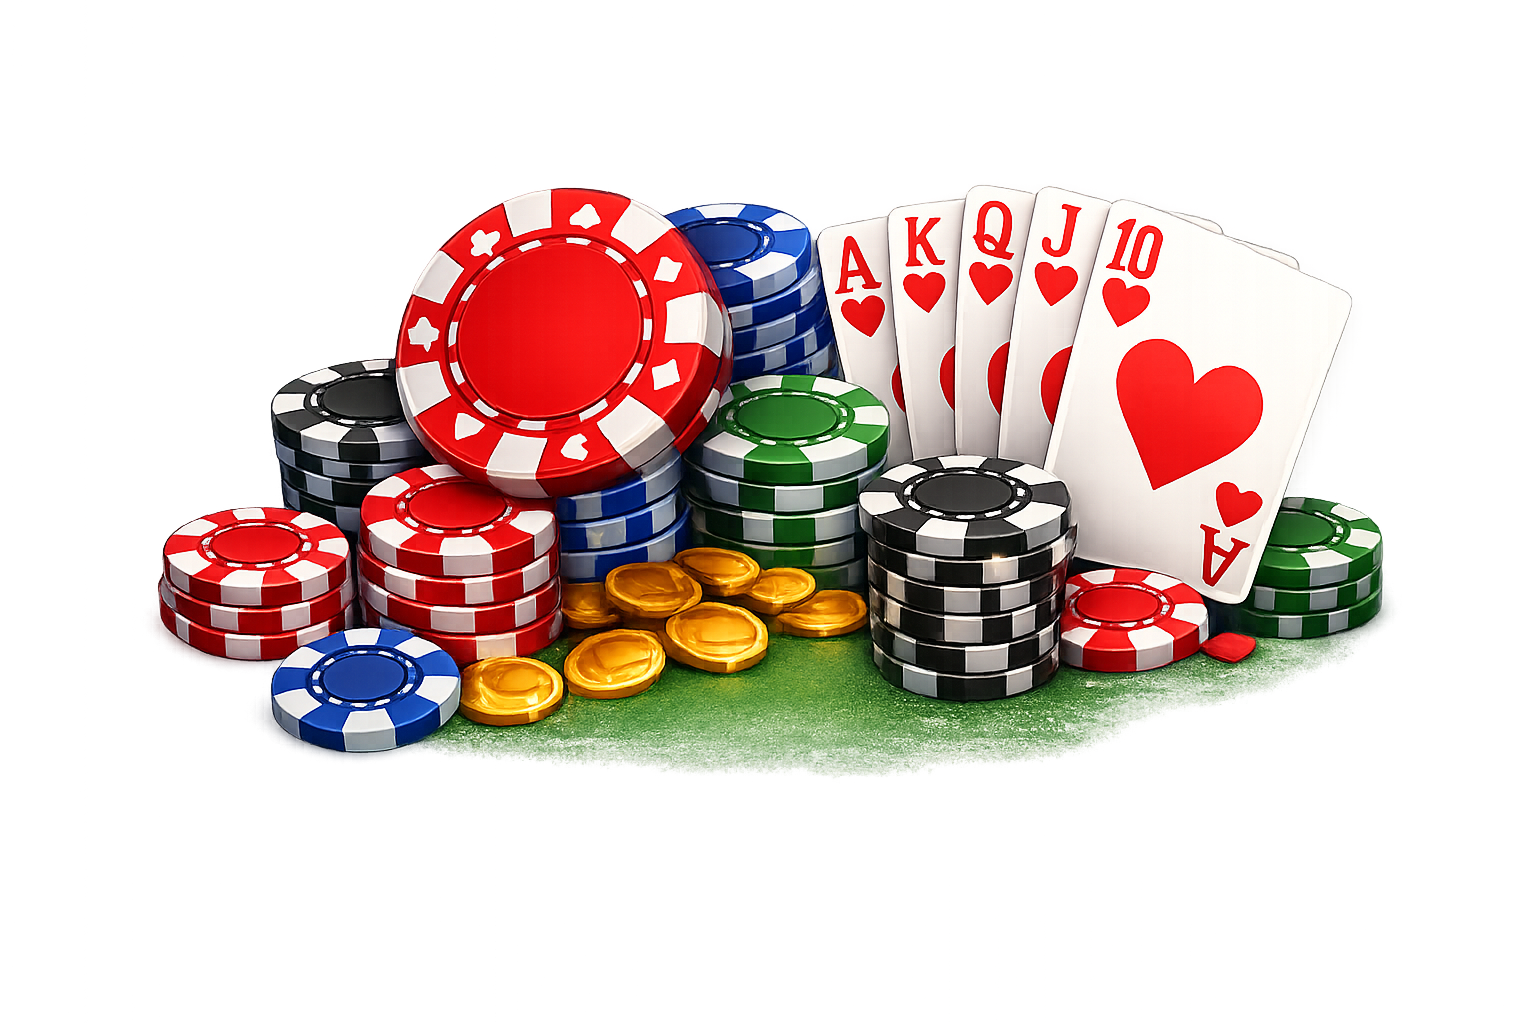
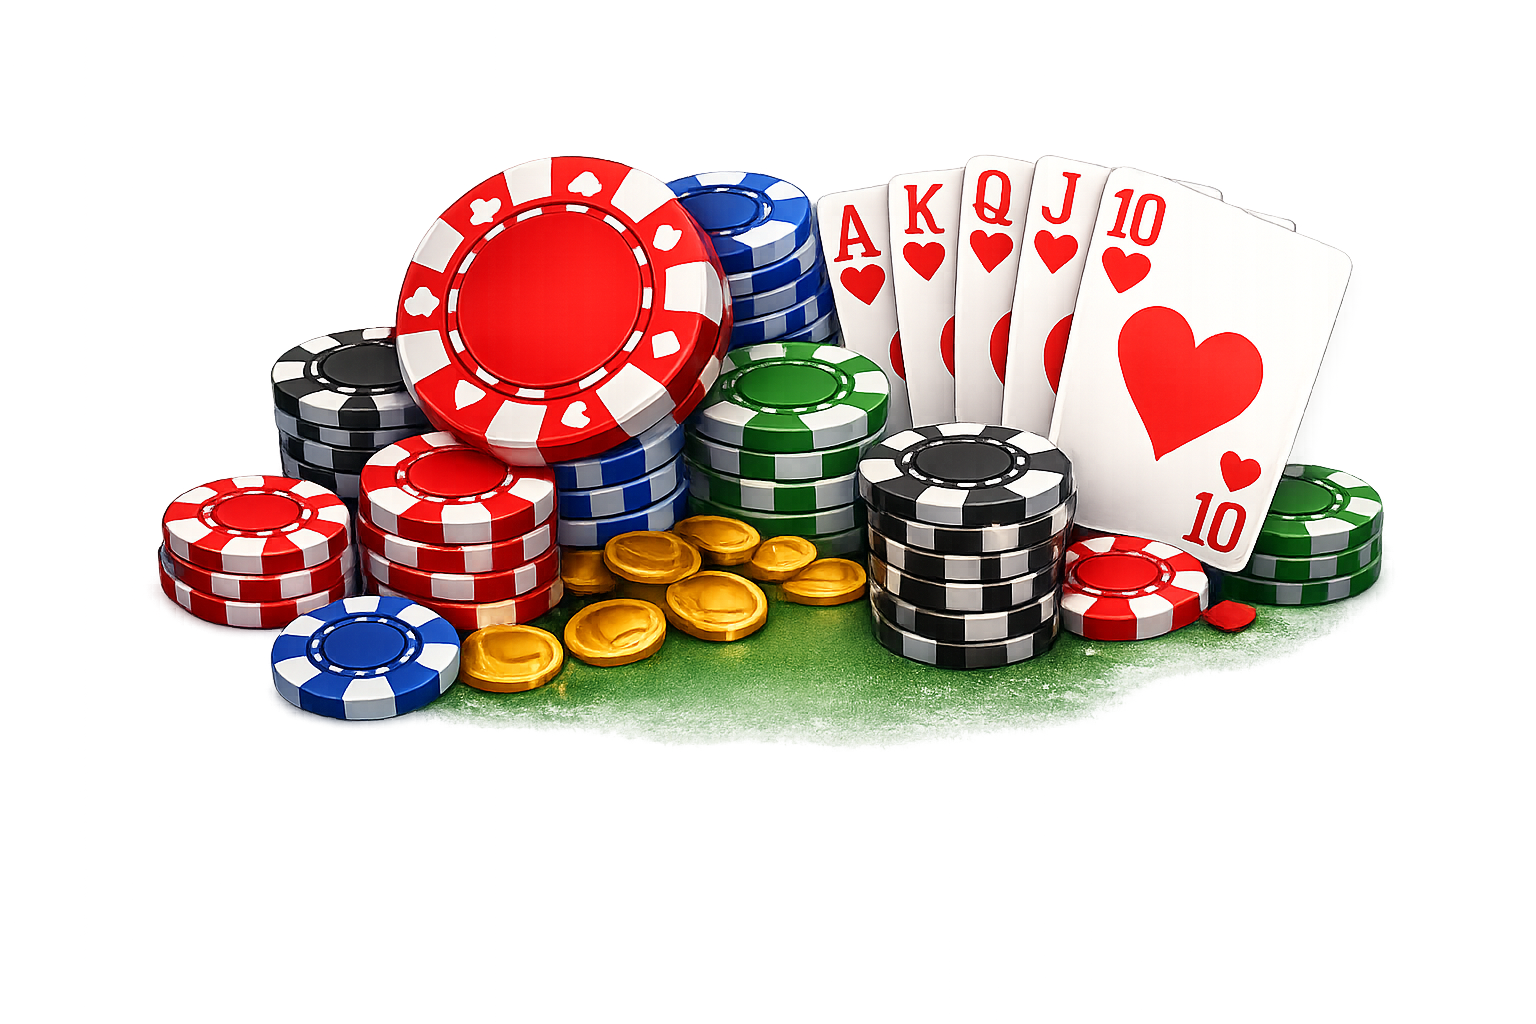
Add rebuy/quit buttons to game-over modal and prior UI tweaks

Changed region(s): [[0.0938, 0.1562, 0.9062, 0.7812]]

diff --git a/miko-ui/src/scenes/GameScene.ts b/miko-ui/src/scenes/GameScene.ts
@@ -12,6 +12,7 @@ import { ActionBar } from '../components/ActionBar.js';
 export class GameScene extends Container {
   private gameManager: GameManager | null = null;
   private actionBar: ActionBar;
+  onQuit: (() => void) | null = null;
 
   constructor() {
     super();
@@ -62,16 +63,35 @@ export class GameScene extends Container {
     const gameoverModal = document.getElementById('gameover-modal');
     const gameoverMessage = document.getElementById('gameover-message');
     const newGameBtn = document.getElementById('new-game-btn');
+    const rebuyBtn = document.getElementById('rebuy-btn');
+    const quitBtn = document.getElementById('quit-btn');
 
     this.gameManager.onGameOver = (message?: string) => {
       if (gameoverMessage && message) gameoverMessage.textContent = message;
+
+      // Player eliminated → show Rebuy + Quit; player won → show New Game
+      const eliminated = message?.includes('ran out of chips');
+      if (rebuyBtn) rebuyBtn.style.display = eliminated ? 'inline-block' : 'none';
+      if (quitBtn) quitBtn.style.display = eliminated ? 'inline-block' : 'none';
+      if (newGameBtn) newGameBtn.style.display = eliminated ? 'none' : 'inline-block';
+
       gameoverModal?.classList.add('open');
     };
 
-    if (newGameBtn && gameoverModal) {
-      newGameBtn.addEventListener('click', () => {
+    if (gameoverModal) {
+      newGameBtn?.addEventListener('click', () => {
         gameoverModal.classList.remove('open');
         this.gameManager?.restart();
+      });
+
+      rebuyBtn?.addEventListener('click', () => {
+        gameoverModal.classList.remove('open');
+        this.gameManager?.rebuy();
+      });
+
+      quitBtn?.addEventListener('click', () => {
+        gameoverModal.classList.remove('open');
+        this.onQuit?.();
       });
     }
 

diff --git a/miko-ui/index.html b/miko-ui/index.html
@@ -154,7 +154,7 @@
       color: #aac;
       margin-bottom: 24px;
     }
-    #new-game-btn {
+    .gameover-btn {
       padding: 12px 40px;
       border: 2px solid #4ade80;
       border-radius: 8px;
@@ -164,9 +164,23 @@
       font-weight: bold;
       cursor: pointer;
       transition: background 0.15s;
+      margin: 6px 8px;
     }
-    #new-game-btn:hover {
+    .gameover-btn:hover {
       background: #3a8e5f;
+    }
+    #quit-btn {
+      border-color: #aa5555;
+      background: #6e2a2a;
+      color: #ff8888;
+    }
+    #quit-btn:hover {
+      background: #8e3a3a;
+    }
+    .gameover-buttons {
+      display: flex;
+      justify-content: center;
+      flex-wrap: wrap;
     }
     #copyright {
       position: fixed;
@@ -244,7 +258,11 @@
     <div id="gameover-panel">
       <h2>Game Over</h2>
       <p id="gameover-message">You ran out of chips!</p>
-      <button id="new-game-btn">New Game</button>
+      <div class="gameover-buttons">
+        <button id="rebuy-btn" class="gameover-btn" style="display:none;">Rebuy ($1000)</button>
+        <button id="quit-btn" class="gameover-btn" style="display:none;">Quit</button>
+        <button id="new-game-btn" class="gameover-btn" style="display:none;">New Game</button>
+      </div>
     </div>
   </div>
   <script type="module" src="/src/main.ts"></script>

diff --git a/miko-ui/src/managers/GameManager.ts b/miko-ui/src/managers/GameManager.ts
@@ -162,6 +162,36 @@ export class GameManager {
     }, 500);
   }
 
+  /** Rebuy: give the human player $1000 and continue the current game */
+  rebuy(): void {
+    if (!this.engine) return;
+
+    // Replace player at seat 0 with a fresh 'player' entry (resets chips to startingChips)
+    this.engine.replacePlayer(0, 'player');
+    this.eliminatedPlayers.delete('player');
+    this.humanFolded = false;
+    this.handPhase = 'idle';
+
+    // Re-show the player slot with new chips
+    const slot = this.slotLayout.getSlot(0);
+    if (slot) {
+      slot.resetForNewHand();
+      slot.setPlayerName(this.getDisplayName('player'));
+      slot.setChips(GAME_CONFIG.startingChips);
+      slot.visible = true;
+    }
+
+    this.statusBar.setStatus('Rebuy! Back in the game.');
+
+    // Start the next hand after a brief pause
+    const gen = this.generation;
+    setTimeout(() => {
+      if (this.generation !== gen) return;
+      this.engine!.startNewHand();
+      this.delayed(() => this.advanceGame(), 500);
+    }, 1500);
+  }
+
   /** Schedule a callback that auto-cancels if the game restarts */
   private delayed(fn: () => void, ms: number): void {
     const gen = this.generation;

diff --git a/miko-ui/src/components/StatusBar.ts b/miko-ui/src/components/StatusBar.ts
@@ -27,9 +27,9 @@ export class StatusBar extends Container {
 
     // Hand label (hand ranking) — bottom-right, aligned with action bar
     this.handLabel = new Text({ text: '', style: FONTS.handLabel as TextStyleOptions });
-    this.handLabel.anchor.set(1, 0.5);
-    this.handLabel.x = 460;
-    this.handLabel.y = 460;
+    this.handLabel.anchor.set(0, 0.5);
+    this.handLabel.x = -460;
+    this.handLabel.y = 430;
     this.addChild(this.handLabel);
   }
 

diff --git a/miko-ui/src/main.ts b/miko-ui/src/main.ts
@@ -191,6 +191,7 @@ async function init() {
     if (pageTitle) pageTitle.style.display = 'block';
     if (copyrightEl) copyrightEl.style.display = 'none';
     const game = new GameScene();
+    game.onQuit = () => showStartScene();
     currentScene = game;
     app.stage.addChild(game);
     layoutScene();

diff --git a/miko-ui/src/data/player-roster.ts b/miko-ui/src/data/player-roster.ts
@@ -62,6 +62,7 @@ const ROSTER_DATA: [string, Playstyle][] = [
   ['StackOverflow',   'shark'],
   ['FlopDonkey76',    'shark'],
   ['crypt0zenith',   'shark'],
+  ['Phil H377muth', 'shark'],
 
   // --- Maniac (4 = 12.5%) ---
   ['MaxDegenMad',  'maniac'],

diff --git a/nova/changelog/20260313/20260313_0252_CHANGELOG.md b/nova/changelog/20260313/20260313_0252_CHANGELOG.md
@@ -1,0 +1,21 @@
+# Rebuy and Quit buttons on game-over modal — 20260313.0252
+
+## Summary
+When the player is eliminated, the game-over modal now shows "Rebuy ($1000)" and "Quit" buttons instead of "New Game". Rebuy gives the player a $1000 starting stack and continues the current game. Quit returns to the start screen. When the player wins (all opponents eliminated), only "New Game" is shown.
+
+## Files Changed
+
+### Modified
+- **miko-ui/index.html** — Added Rebuy and Quit buttons to gameover-panel; restyled buttons with shared `.gameover-btn` class; Quit button has red theme
+- **miko-ui/src/scenes/GameScene.ts** — Added `onQuit` callback; wired Rebuy to `gameManager.rebuy()`, Quit to `onQuit`, conditionally shows buttons based on elimination vs win
+- **miko-ui/src/managers/GameManager.ts** — Added `rebuy()` method: replaces player at seat 0 via engine, removes from eliminated set, re-shows slot with starting chips, starts next hand after brief pause
+- **miko-ui/src/main.ts** — Connected `game.onQuit` to `showStartScene()`
+
+## Test results
+- `npm test`: 3 suites, 52 passed, 2 failed (pre-existing allin.test.ts failures)
+
+## Git Commit Hash
+`TBD`
+
+## Status
+✅ Completed
